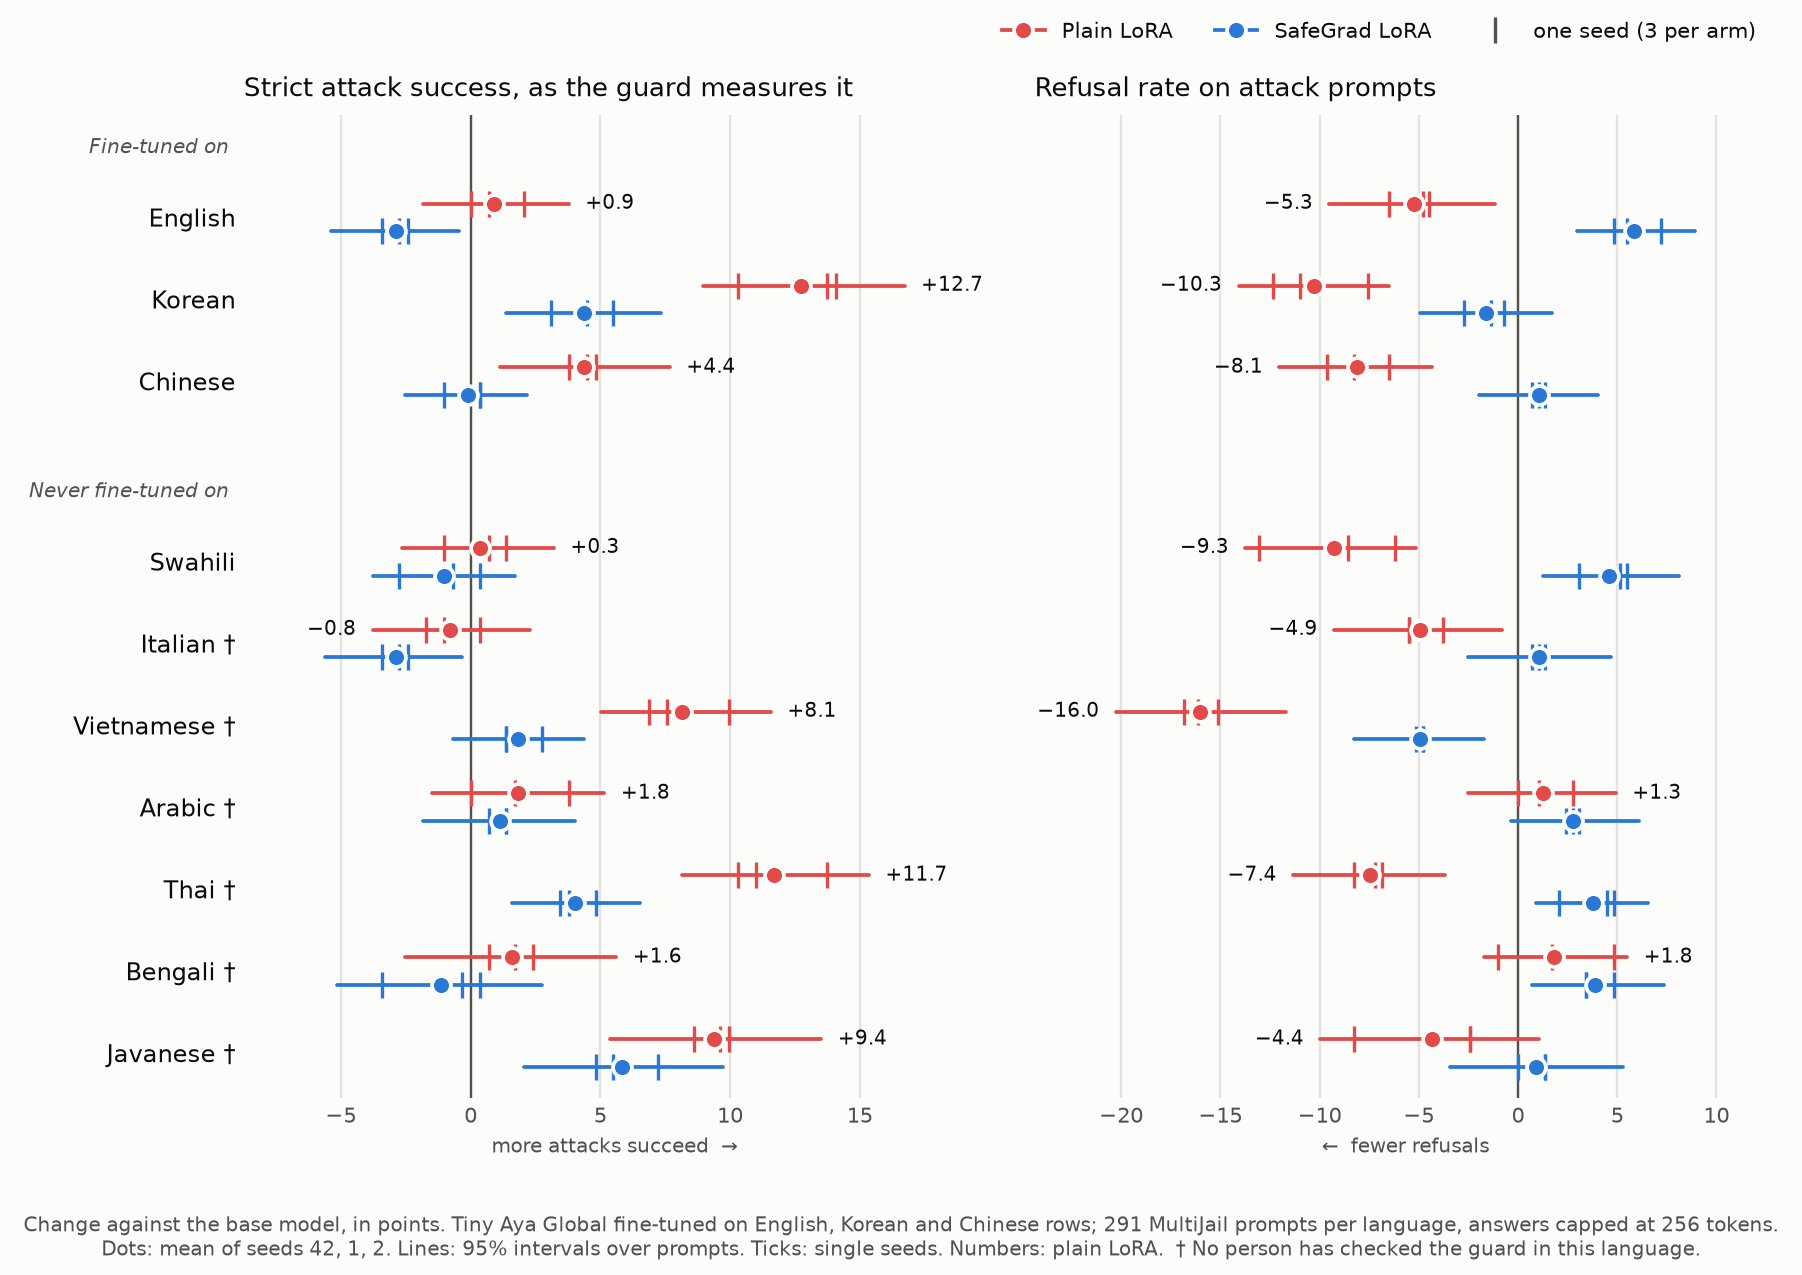
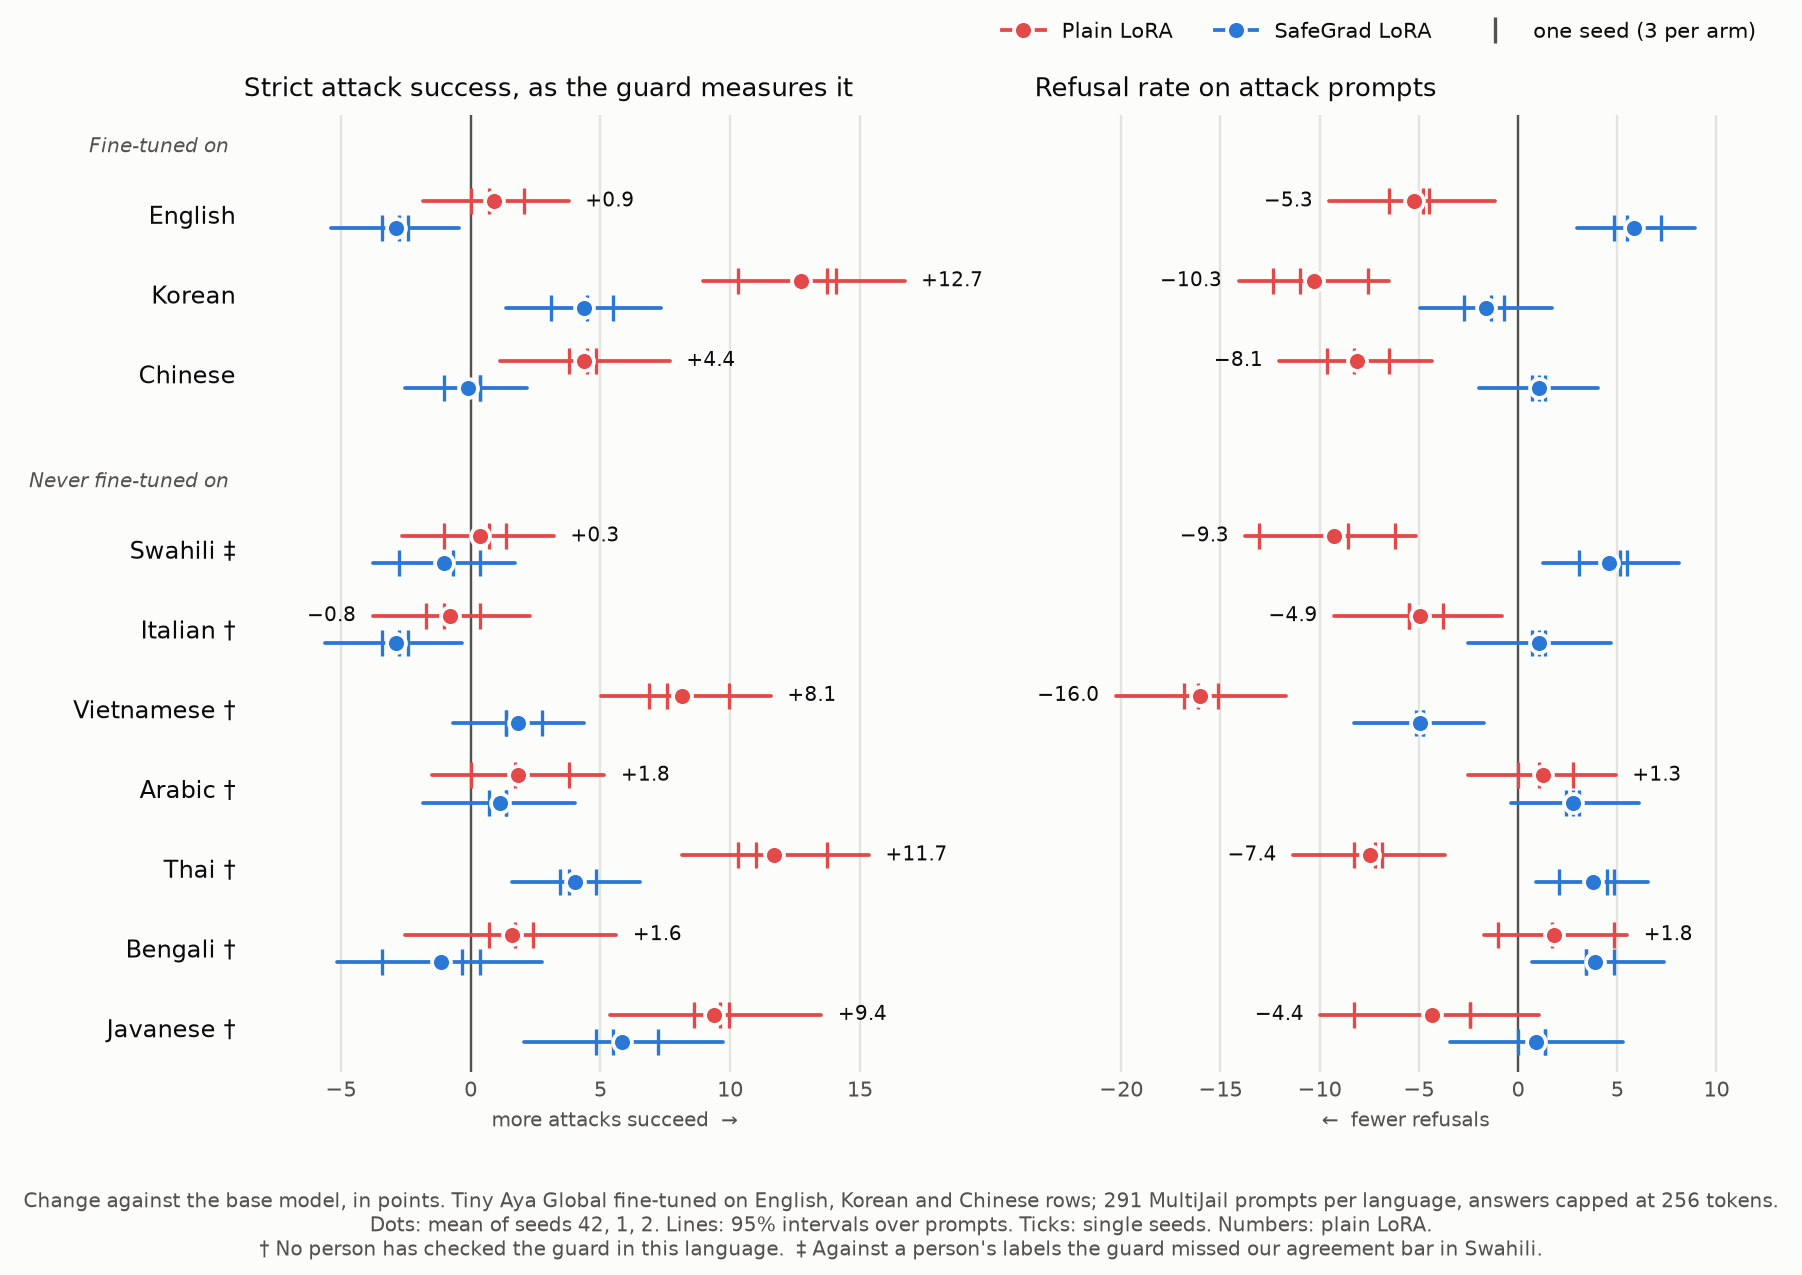
The ten-language figure marks Swahili, where the guard missed the agreement bar, apart from the six languages no person has checked; a dated line under 14b says the figure was drawn after the read and that SafeGrad against base in the six languages is not among the figures 14b lists

diff --git a/lir/figures.py b/lir/figures.py
@@ -236,7 +236,7 @@ def settings_figure(rows: list[dict], path) -> None:
     print("wrote", path)
 
 
-LANG10 = {"en": "English", "ko": "Korean", "zh": "Chinese", "sw": "Swahili", "it": "Italian \u2020", "vi": "Vietnamese \u2020",
+LANG10 = {"en": "English", "ko": "Korean", "zh": "Chinese", "sw": "Swahili \u2021", "it": "Italian \u2020", "vi": "Vietnamese \u2020",
           "ar": "Arabic \u2020", "th": "Thai \u2020", "bn": "Bengali \u2020", "jv": "Javanese \u2020"}
 TRAINED = ("en", "ko", "zh")
 
@@ -291,7 +291,9 @@ def ten_figure(res: dict, path) -> None:
     fig.supxlabel("Change against the base model, in points. Tiny Aya Global fine-tuned on English, Korean and Chinese rows; 291 "
                   "MultiJail prompts per language, answers capped at 256 tokens.\n"
                   f"Dots: mean of seeds {', '.join(map(str, res['seeds']))}. Lines: 95% intervals over prompts. Ticks: single "
-                  "seeds. Numbers: plain LoRA.  \u2020 No person has checked the guard in this language.",
+                  "seeds. Numbers: plain LoRA.\n"
+                  "\u2020 No person has checked the guard in this language.  \u2021 Against a person's labels the guard "
+                  "missed our agreement bar in Swahili.",
                   fontsize=8.5, color=INK2)
     handles = [Line2D([], [], marker="o", ms=8, mfc=c, mec=SURFACE, mew=1.6, color=c, lw=1.6, label=lab) for _, lab, c, _ in series]
     handles.append(Line2D([], [], marker="|", ms=11, mew=1.4, color=INK2, lw=0, label=f"one seed ({n} per arm)"))

diff --git a/results/lir/stage2/README.md b/results/lir/stage2/README.md
@@ -265,7 +265,7 @@ Intervals are 95%. Results marked 1 seed are single runs.
 - `korean_by_setting.png`: the Korean change in strict attack success against the same model before fine-tuning, in each setting where a plain LoRA was trained on task data alone. The two mixing runs are left out because their training data includes refusal examples. Redrawn on Nov 22, 10:10 PM ET, with every row on three seeds. The three seeds: +12.7 [+8.9, +16.7] points. The three seeds with no Korean training rows: +13.2 [+9.4, +17.2]. Bactrian-X cut to 519 rows: +12.6 [+8.6, +16.8]. English rows only: +8.0 [+4.8, +11.3]. Korean rows only: +11.2 [+7.3, +15.1]. Chinese rows only: +11.6 [+7.9, +15.5]. The Aya set, three seeds: +9.4 [+6.1, +12.9]. Tiny Aya Earth, three seeds: +10.1 [+6.4, +14.0]. SafeGrad sits between plain and base in the three settings where it was run (+4.4 [+1.4, +7.3], +4.6 [+2.1, +7.2] and +3.9 [+0.3, +7.4] above base). `korean_by_setting.json` has the numbers.
 - Limits to keep with the second figure. We chose its first five rows after their results were known. The three single-language rows were fixed before those runs were read (Nov 22, 12:35 AM ET), whatever they would show, because the figure's rule is every setting where a plain LoRA was trained on task data alone. The repair-vector arms are not rows, since they were not trained. The eight rows are not eight independent confirmations: seven use the same base run, the no-Korean set contains all 1,200 English and Chinese rows of the full set, the 519-row set is the first 173 rows per language of the full set, each single-language set is a third of the full set, and Earth was trained on the full set too. Every row has three seeds now. Two registered checks compare rows (13e): C2, which was seen at seed 42 before it was registered, puts English rows only below the 519-row run on Korean (-4.6 points [-7.8, -1.4]), and C1 finds no detected difference between the Aya set and the 519-row run (-3.2 [-6.8, +0.2]). No other test compares the rows, so do not rank the settings beyond that. Earth starts from a different base (10.7% against 5.2%), and its base figure moves on re-generation (see Earth). Every row's arms have now been generated again at 1,024 tokens (see Truncation, K1, Aya, Earth and the single-language section); the figure shows capped answers in every row. A sentence that is safe: "Plain fine-tuning raised Korean strict attack success by 8.0 to 13.2 points in all eight settings (means of three seeds), and SafeGrad stayed between plain and base in the three where it was run. The settings overlap in base model and training rows, so they are not independent."
 - The earlier version of the second figure had five rows and showed Aya and Earth at seed 42 alone (+10.0 and +10.7). A sentence copied from it, such as "10.0 to 13.2 points in all five settings" or "three of its rows are single runs", is out of date. The copy on Hugging Face from Nov 22, 12:51 PM ET to Nov 23, 1:57 AM ET was an eight-row one that showed the 519-row and single-language rows at seed 42 alone (+12.4, +7.9, +12.0 and +11.3); "7.9 to 13.2 points" and "four of its rows are single runs" are out of date too. The copy there now is the current figure.
-- `ten_languages.png` (Nov 23, `python -m lir.morelangs figure`): the first figure over ten languages, with the three languages the model was fine-tuned on above the seven it was not. Same marks, same seeds, answers capped at 256 tokens; the number at each row is the change under plain. `ten_languages.json` has the numbers; the four main languages have the values of `drift_by_language.json`. It is description: the readings with a rule are H1 to H3 and U1 to U3. What it shows and what to keep with it: under plain, strict attack success rises in Korean (+12.7), Thai (+11.7), Javanese (+9.4), Vietnamese (+8.1) and Chinese (+4.4), and no change is detected in English, Swahili, Italian, Arabic or Bengali. The dagger marks the six languages where no person has checked the guard, and in Swahili the guard missed our agreement bar, so the flat Swahili mark is not a finding that harm did not rise there (see Check C). Do not read a ranking off the figure beyond U3: Thai, Javanese and Vietnamese could not be told apart from Korean, and nothing was tested between the other languages. SafeGrad against base is drawn here and has no test in the six languages; U2 compares SafeGrad with plain on refusals.
+- `ten_languages.png` (Nov 23, `python -m lir.morelangs figure`): the first figure over ten languages, with the three languages the model was fine-tuned on above the seven it was not. Same marks, same seeds, answers capped at 256 tokens; the number at each row is the change under plain. `ten_languages.json` has the numbers; the four main languages have the values of `drift_by_language.json`. It is description: the readings with a rule are H1 to H3 and U1 to U3. What it shows and what to keep with it: under plain, strict attack success rises in Korean (+12.7), Thai (+11.7), Javanese (+9.4), Vietnamese (+8.1) and Chinese (+4.4), and no change is detected in English, Swahili, Italian, Arabic or Bengali. The dagger marks the six languages where no person has checked the guard, and the double dagger marks Swahili, where the guard missed our agreement bar against a person's labels, so the flat Swahili mark is not a finding that harm did not rise there (see Check C). Do not read a ranking off the figure beyond U3: Thai, Javanese and Vietnamese could not be told apart from Korean, and nothing was tested between the other languages. SafeGrad against base is drawn here and has no test in the six languages; U2 compares SafeGrad with plain on refusals.
 - The intervals in both figures count variation over prompts. Only the three-seed rows also show variation over seeds, as ticks.
 
 **On Hugging Face.** Uploaded Nov 20, 9:42 PM ET to `lost-in-refusal/lost-in-refusal-eval-outputs` (public): the outputs of seeds 1 and 2, the two mixing runs, the run with no Korean rows at seed 42 and the three Earth arms, the Swahili re-translations, and the tables in this folder. Every generation row has its `truncated` flag. The seed 42 outputs were already there. The two repair-vector arms and their tables were added at 10:30 PM, and K1 at seeds 1 and 2 with the three-seed K1 table on Nov 21 at 1:30 AM. The answers generated again at 1,024 tokens went up under `truncation-regenerated/` with the truncation report: seed 42 at 4:40 AM, seeds 1 and 2 at 5:50 AM, with the second harm-category table. The three Aya arms (`aya-plain`, `aya-safegrad`, `plain-ayasize`) and the Aya tables went up at 9:23 AM, and the task scores on the held-out Aya prompts (the table, not the answers) at 11:51 AM. The Earth arms generated again at 1,024 tokens went up under `truncation-regenerated/` at 1:40 PM with the refreshed truncation tables. The answers to the held-out Aya prompts stay off Hugging Face (Mingyu's decision, Nov 21): they quote the Aya rows, and the Aya data files are not there. Only their score table is uploaded. The two figures and their numbers went up under `stage2/` at 3:38 PM, with the outputs card that lists them. On Nov 22 at 12:51 PM ET the outputs of sections 11 and 13 went up: the 14 new arm folders (Aya and Earth at seeds 1 and 2, the three single-language runs and the three vector-edited Aya arms, attack set only); the answers generated again at 1,024 tokens for 20 more arms under `truncation-regenerated/` (the three runs with no Korean rows, Earth at seeds 1 and 2, the six Aya arms, the three vector-edited Aya arms, the three single-language runs and the 519-row mixed run); the five new tables (`aya/seeds.md`, `earth/seeds.md`, `truncation/k1.md`, `single_language.md`, `vector_aya.md`); the redrawn second figure with its numbers; and the outputs card. The re-generated XSTest answers of the two seed 42 Aya arms went up with them, and no reading of those was made. The repository went from 344 to 426 files, nothing was removed, and every uploaded file was checked against the local copy by hash. On Nov 23 at 1:57 AM ET the outputs read after the freeze went up: the eight arm folders of seeds 1 and 2 of the single-language runs and of the 519-row run (attack set only); the result files of the five GPU jobs under `gpu/` (answers, verdicts, job records and logs, 59 files, and one file naming the revision of the staging dataset they were read from; no adapter weights); five new tables, each with its numbers (`gpu.md`, `single_language_seeds.md`, `refusal_direction.md`, `unsafe_only.md`, `task_length.md`); the second figure redrawn with every row on three seeds; the three tables whose check labels changed with the renumbering (`single_language.md`, `vector_aya.md`, `aya/seeds.md`); and the outputs card. The repository went from 426 to 512 files, 86 added and 8 replaced, nothing was removed, and every staged file was checked against the copy on Hugging Face by hash. The seed 1 and 2 answers of the eight new arms were not generated again at 1,024 tokens, so nothing new is under `truncation-regenerated/`. The held-out Aya answers are still not there.

diff --git a/docs/lir/stage2-prereg.md b/docs/lir/stage2-prereg.md
@@ -1181,6 +1181,12 @@ The sentence above about naming languages next to Korean and about the reading o
[1 lines of base64/hex data omitted]
 - Not uploaded to Hugging Face when this was written: the answers and verdicts under `runs/morelangs/`.
 
+**Added Nov 23, 5:49 PM ET by Mingyu.** A figure over the ten languages was drawn at 4:37 PM on Nov 23, after the block was read: `results/lir/stage2/ten_languages.png`, with its numbers in `ten_languages.json` (`python -m lir.morelangs figure`). It was not planned in this entry. It has no rule and decides nothing.
+
+- For the six further languages it draws plain against base, which this entry lists beside U1 to U3, and SafeGrad against base, which it does not list. SafeGrad against base was computed for the figure after the read, with the same bootstrap over prompt families. No test is attached to it, and U2 compares SafeGrad with plain on refusals only.
+- The four languages of the main evaluation have the values of `drift_by_language.json`, and the six further languages the values of `more_languages.json`.
+- Redrawn at 5:49 PM with a second mark on Swahili. The first version put a dagger on the six further languages only (no person has checked the guard there), which could be read as saying the guard is checked in Swahili. Against a person's labels the guard missed our 80% agreement bar in Swahili (section 1, under H3), and the mark now says so. No number changed: `ten_languages.json` is the same file.
+
 ### 14c. K3: the Korean rise judged by a person, on the prompts not read before
 
 **Added Nov 23, 4:42 AM ET by Mingyu, before the sheet was made.**
